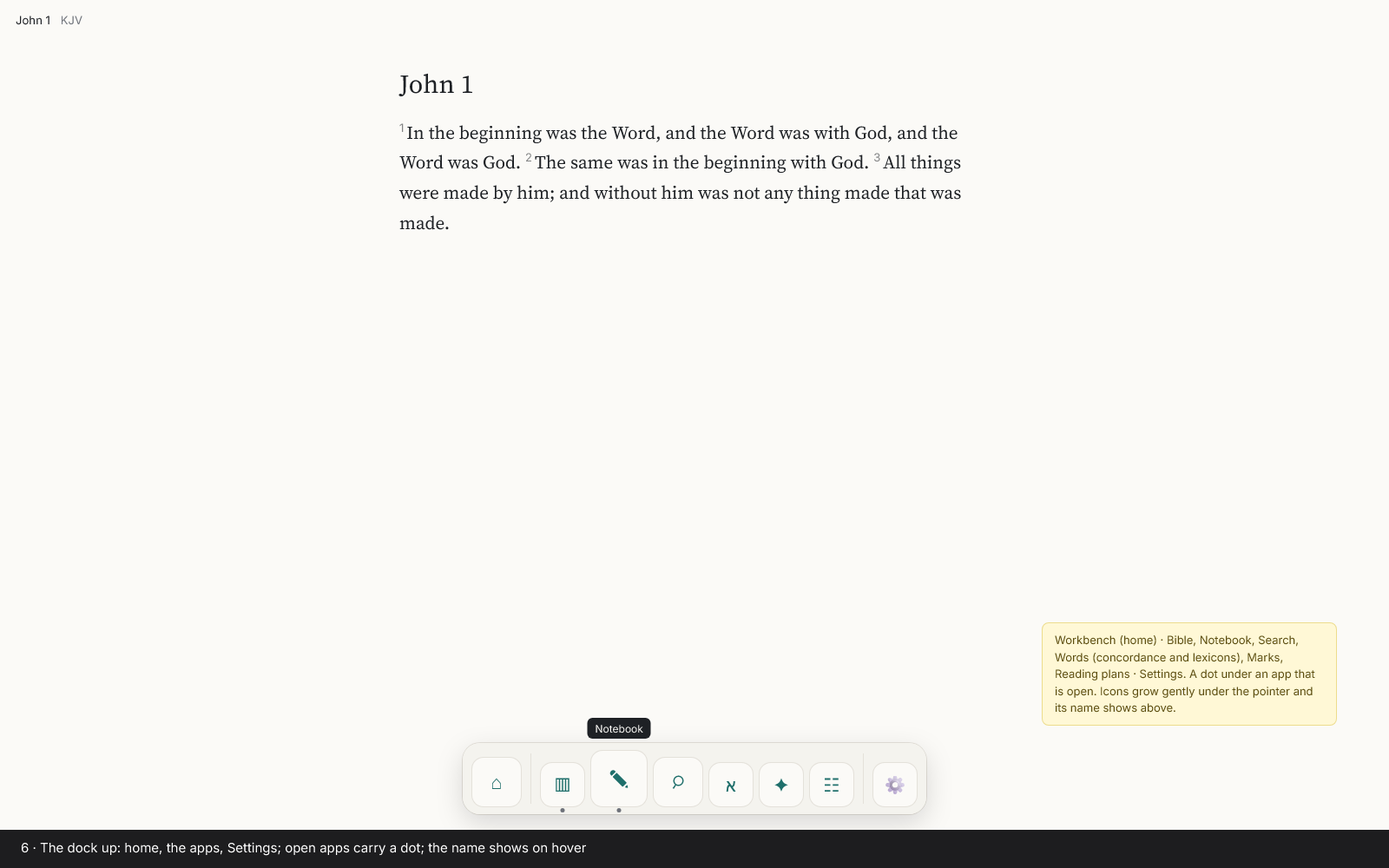
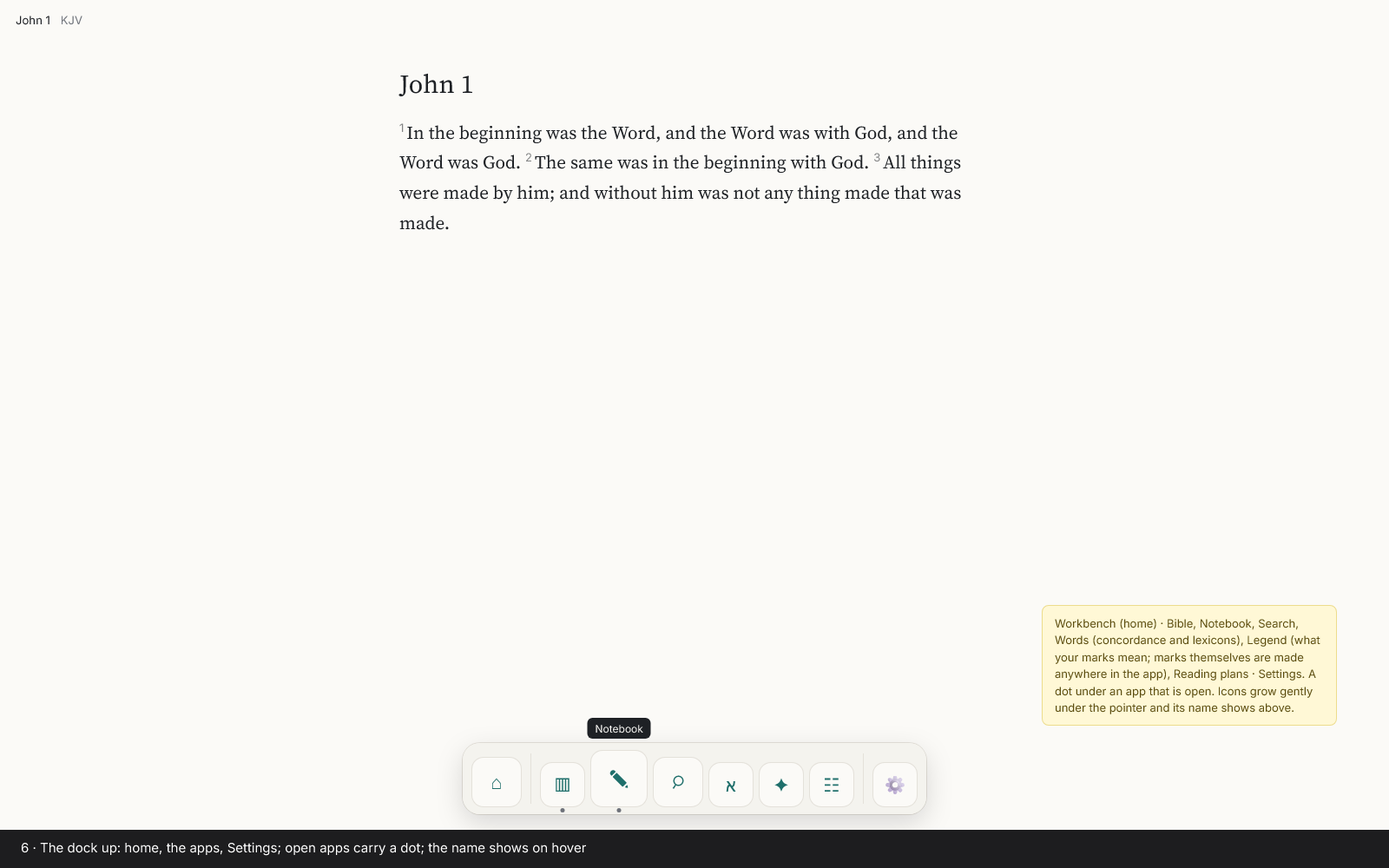
identity round 1b: twenty palettes in light and dark, a frame for every row, Legend in the dock, the codebase answer

Changed region(s): [[0.75, 0.682, 0.9688, 0.837]]

diff --git a/design/features/identity/frames.html b/design/features/identity/frames.html
@@ -63,10 +63,23 @@ body { margin: 0; background: #ccc; font: 14px/1.5 Inter, system-ui, sans-serif;
 .z { width: 96px; height: 60px; border-radius: 8px; display:grid; gap: 3px; padding: 3px; background: var(--paper); border: 1px solid var(--line); }
 .z i { background: var(--accent-soft); border-radius: 4px; display:block; } .z i.on { background: var(--accent); }
 .note { position:absolute; background:#FFF8D6; border:1px solid #EDDC8C; color:#5C4E10; padding: 10px 14px; border-radius: 8px; font-size: 13px; width: 340px; z-index: 20; }
+
+.pg { display:grid; grid-template-columns: repeat(5, 1fr); grid-template-rows: repeat(4, 1fr); gap: 10px; padding: 14px; height: 100%; background:#d9d9d9; }
+.pc { background: var(--paper); color: var(--ink); border-radius: 12px; padding: 12px 14px; display:flex; flex-direction:column; gap: 6px; border:1px solid var(--line); font-family: Inter, sans-serif; }
+.pn { font-weight: 600; font-size: 15px; }
+.pv { font-family: 'Source Serif 4', serif; font-size: 14px; line-height: 1.5; flex: 1; overflow: hidden; }
+.pr { display:flex; gap: 6px; align-items:center; }
+.sq { margin-left:auto; display:flex; gap:3px; } .sq i { width:14px; height:14px; border-radius:4px; display:block; border:1px solid #0002; }
+.kbd { position:absolute; top:-10px; right:-6px; background: var(--ink); color: var(--paper); font: 600 11px Inter; border-radius: 5px; padding: 1px 5px; }
+.set { position:absolute; left: 50%; top: 60px; transform: translateX(-50%); width: 720px; background: var(--paper); border:1px solid var(--line); border-radius: 14px; box-shadow: 0 20px 50px rgba(0,0,0,.16); padding: 22px 26px; font-family: var(--ui), sans-serif; }
+.set h2 { margin: 0 0 14px; font-size: 18px; }
+.seg { display:inline-flex; border:1px solid var(--line); border-radius: 8px; overflow:hidden; } .seg span { padding: 6px 14px; font-size: 13px; } .seg span.on { background: var(--accent); color:#fff; }
+.srow { display:flex; justify-content: space-between; align-items:center; padding: 12px 0; border-bottom:1px solid var(--line); }
+.hl { background: color-mix(in srgb, var(--accent) 16%, transparent); border-radius: 3px; }
 </style></head><body>
 
 <!-- 1: three directions -->
-<div class="frame" data-id="1" data-row="1" style="display:flex">
+<div class="frame" data-id="1b" data-row="1" style="display:flex">
   <div class="dir d-vellum"><h2>A · Vellum</h2><div class="tag">Quiet warm-white paper, deep teal ink-accent · Inter + Source Serif 4</div>
     <div class="sw"><i style="background:#FBFAF7"></i><i style="background:#F3F1EC"></i><i style="background:#1E2125"></i><i style="background:#1F6F6B"></i><i style="background:#DDECEA"></i></div>
     <div class="read" data-verses="john"></div>
@@ -88,15 +101,15 @@ body { margin: 0; background: #ccc; font: 14px/1.5 Inter, system-ui, sans-serif;
     <div class="mini"><div class="row"><span>Salt lessons 2025</span><span style="color:var(--muted)">2m ago</span></div><div class="row"><span>Word studies</span><span style="color:var(--muted)">Yesterday</span></div></div>
     <div class="mk"><i style="background:#F6D96B"></i><i style="background:#9FD3A8"></i><i style="background:#9CC3F0"></i><i style="background:#F3A6A6"></i><i style="background:#C9B3EC"></i></div>
   </div>
-  <div class="cap">1 · Three identities, each a palette, a UI face and a scripture face; the marks palette is the same in all three</div>
+  <div class="cap">1 (detail) · Three of the palettes up close with their faces; the marks palette is the same in all of them</div>
 </div>
 
 <!-- 2: dark -->
-<div class="frame" data-id="2" data-row="2" style="display:flex">
+<div class="frame" data-id="2b" data-row="2" style="display:flex">
   <div class="dir d-vellum dark"><h2>A · Vellum, dark</h2><div class="read" data-verses="john"></div><div><span class="btn">Open</span> <span class="chip">Covenant</span></div></div>
   <div class="dir d-ink dark"><h2>B · Ink, dark</h2><div class="read" data-verses="john"></div><div><span class="btn">Open</span> <span class="chip">Covenant</span></div></div>
   <div class="dir d-olive dark"><h2>C · Olive press, dark</h2><div class="read" data-verses="john"></div><div><span class="btn">Open</span> <span class="chip">Covenant</span></div></div>
-  <div class="cap">2 · Each identity in dark; the page surface's colors are a theme the person can change (row 3)</div>
+  <div class="cap">2 (detail) · Three palettes in dark, up close</div>
 </div>
 
 <!-- 3: scripture faces -->
@@ -131,7 +144,7 @@ body { margin: 0; background: #ccc; font: 14px/1.5 Inter, system-ui, sans-serif;
     <div class="dsep"></div>
     <div class="app-i">⚙&#xFE0E;</div>
   </div>
-  <div class="note" style="right:60px;bottom:120px">Workbench (home) · Bible, Notebook, Search, Words (concordance and lexicons), Marks, Reading plans · Settings. A dot under an app that is open. Icons grow gently under the pointer and its name shows above.</div>
+  <div class="note" style="right:60px;bottom:120px">Workbench (home) · Bible, Notebook, Search, Words (concordance and lexicons), Legend (what your marks mean; marks themselves are made anywhere in the app), Reading plans · Settings. A dot under an app that is open. Icons grow gently under the pointer and its name shows above.</div>
 </div><div class="cap">6 · The dock up: home, the apps, Settings; open apps carry a dot; the name shows on hover</div></div>
 
 <!-- 6: taskbar -->
@@ -179,6 +192,14 @@ body { margin: 0; background: #ccc; font: 14px/1.5 Inter, system-ui, sans-serif;
   <div class="win" style="left:1170px;top:58px;right:20px;bottom:20px"><div class="wt"><b>Words · G3056</b></div><div class="wb"><div class="ln"></div><div class="ln"></div></div></div>
 </div><div class="cap">15 · Together C, Desks: a named, saved arrangement of apps per task; switching desks swaps the whole screen; nothing stays open unseen</div></div>
 
+<div class="frame" data-id="1" data-row="1"><div class="pg"><div class="pc" style="--paper:#FBFAF7;--ink:#1E2125;--accent:#1F6F6B;--line:color-mix(in srgb,#1E2125 12%,#FBFAF7);--muted:color-mix(in srgb,#1E2125 55%,#FBFAF7);--accent-soft:color-mix(in srgb,#1F6F6B 14%,#FBFAF7)"><div class="pn">Vellum</div><div class="pv" data-verses="john1"></div><div class="pr"><span class="btn" style="padding:4px 10px">Open</span><span class="chip">Folder</span><span class="sq"><i style="background:#FBFAF7"></i><i style="background:#1E2125"></i><i style="background:#1F6F6B"></i></span></div></div><div class="pc" style="--paper:#F7F8FA;--ink:#161A22;--accent:#3346B8;--line:color-mix(in srgb,#161A22 12%,#F7F8FA);--muted:color-mix(in srgb,#161A22 55%,#F7F8FA);--accent-soft:color-mix(in srgb,#3346B8 14%,#F7F8FA)"><div class="pn">Ink</div><div class="pv" data-verses="john1"></div><div class="pr"><span class="btn" style="padding:4px 10px">Open</span><span class="chip">Folder</span><span class="sq"><i style="background:#F7F8FA"></i><i style="background:#161A22"></i><i style="background:#3346B8"></i></span></div></div><div class="pc" style="--paper:#F7F5EF;--ink:#24231F;--accent:#5D6B2E;--line:color-mix(in srgb,#24231F 12%,#F7F5EF);--muted:color-mix(in srgb,#24231F 55%,#F7F5EF);--accent-soft:color-mix(in srgb,#5D6B2E 14%,#F7F5EF)"><div class="pn">Olive press</div><div class="pv" data-verses="john1"></div><div class="pr"><span class="btn" style="padding:4px 10px">Open</span><span class="chip">Folder</span><span class="sq"><i style="background:#F7F5EF"></i><i style="background:#24231F"></i><i style="background:#5D6B2E"></i></span></div></div><div class="pc" style="--paper:#F8F3EA;--ink:#2A2420;--accent:#A0522D;--line:color-mix(in srgb,#2A2420 12%,#F8F3EA);--muted:color-mix(in srgb,#2A2420 55%,#F8F3EA);--accent-soft:color-mix(in srgb,#A0522D 14%,#F8F3EA)"><div class="pn">Parchment</div><div class="pv" data-verses="john1"></div><div class="pr"><span class="btn" style="padding:4px 10px">Open</span><span class="chip">Folder</span><span class="sq"><i style="background:#F8F3EA"></i><i style="background:#2A2420"></i><i style="background:#A0522D"></i></span></div></div><div class="pc" style="--paper:#F5F7F9;--ink:#1B2330;--accent:#3B5B7A;--line:color-mix(in srgb,#1B2330 12%,#F5F7F9);--muted:color-mix(in srgb,#1B2330 55%,#F5F7F9);--accent-soft:color-mix(in srgb,#3B5B7A 14%,#F5F7F9)"><div class="pn">Slate</div><div class="pv" data-verses="john1"></div><div class="pr"><span class="btn" style="padding:4px 10px">Open</span><span class="chip">Folder</span><span class="sq"><i style="background:#F5F7F9"></i><i style="background:#1B2330"></i><i style="background:#3B5B7A"></i></span></div></div><div class="pc" style="--paper:#F4F6F1;--ink:#20261F;--accent:#5E7D63;--line:color-mix(in srgb,#20261F 12%,#F4F6F1);--muted:color-mix(in srgb,#20261F 55%,#F4F6F1);--accent-soft:color-mix(in srgb,#5E7D63 14%,#F4F6F1)"><div class="pn">Sage</div><div class="pv" data-verses="john1"></div><div class="pr"><span class="btn" style="padding:4px 10px">Open</span><span class="chip">Folder</span><span class="sq"><i style="background:#F4F6F1"></i><i style="background:#20261F"></i><i style="background:#5E7D63"></i></span></div></div><div class="pc" style="--paper:#F9F6F8;--ink:#241C24;--accent:#6B3F6E;--line:color-mix(in srgb,#241C24 12%,#F9F6F8);--muted:color-mix(in srgb,#241C24 55%,#F9F6F8);--accent-soft:color-mix(in srgb,#6B3F6E 14%,#F9F6F8)"><div class="pn">Plum</div><div class="pv" data-verses="john1"></div><div class="pr"><span class="btn" style="padding:4px 10px">Open</span><span class="chip">Folder</span><span class="sq"><i style="background:#F9F6F8"></i><i style="background:#241C24"></i><i style="background:#6B3F6E"></i></span></div></div><div class="pc" style="--paper:#F6F8FB;--ink:#121A2A;--accent:#1E3A6B;--line:color-mix(in srgb,#121A2A 12%,#F6F8FB);--muted:color-mix(in srgb,#121A2A 55%,#F6F8FB);--accent-soft:color-mix(in srgb,#1E3A6B 14%,#F6F8FB)"><div class="pn">Harbor</div><div class="pv" data-verses="john1"></div><div class="pr"><span class="btn" style="padding:4px 10px">Open</span><span class="chip">Folder</span><span class="sq"><i style="background:#F6F8FB"></i><i style="background:#121A2A"></i><i style="background:#1E3A6B"></i></span></div></div><div class="pc" style="--paper:#FAF5F0;--ink:#2B211C;--accent:#B5562F;--line:color-mix(in srgb,#2B211C 12%,#FAF5F0);--muted:color-mix(in srgb,#2B211C 55%,#FAF5F0);--accent-soft:color-mix(in srgb,#B5562F 14%,#FAF5F0)"><div class="pn">Terracotta</div><div class="pv" data-verses="john1"></div><div class="pr"><span class="btn" style="padding:4px 10px">Open</span><span class="chip">Folder</span><span class="sq"><i style="background:#FAF5F0"></i><i style="background:#2B211C"></i><i style="background:#B5562F"></i></span></div></div><div class="pc" style="--paper:#F6F6F6;--ink:#1A1A1A;--accent:#3F3F46;--line:color-mix(in srgb,#1A1A1A 12%,#F6F6F6);--muted:color-mix(in srgb,#1A1A1A 55%,#F6F6F6);--accent-soft:color-mix(in srgb,#3F3F46 14%,#F6F6F6)"><div class="pn">Graphite</div><div class="pv" data-verses="john1"></div><div class="pr"><span class="btn" style="padding:4px 10px">Open</span><span class="chip">Folder</span><span class="sq"><i style="background:#F6F6F6"></i><i style="background:#1A1A1A"></i><i style="background:#3F3F46"></i></span></div></div><div class="pc" style="--paper:#F5F6EE;--ink:#22251B;--accent:#4F6B2A;--line:color-mix(in srgb,#22251B 12%,#F5F6EE);--muted:color-mix(in srgb,#22251B 55%,#F5F6EE);--accent-soft:color-mix(in srgb,#4F6B2A 14%,#F5F6EE)"><div class="pn">Moss</div><div class="pv" data-verses="john1"></div><div class="pr"><span class="btn" style="padding:4px 10px">Open</span><span class="chip">Folder</span><span class="sq"><i style="background:#F5F6EE"></i><i style="background:#22251B"></i><i style="background:#4F6B2A"></i></span></div></div><div class="pc" style="--paper:#FAF4F3;--ink:#2A1F1F;--accent:#A44B5A;--line:color-mix(in srgb,#2A1F1F 12%,#FAF4F3);--muted:color-mix(in srgb,#2A1F1F 55%,#FAF4F3);--accent-soft:color-mix(in srgb,#A44B5A 14%,#FAF4F3)"><div class="pn">Clay rose</div><div class="pv" data-verses="john1"></div><div class="pr"><span class="btn" style="padding:4px 10px">Open</span><span class="chip">Folder</span><span class="sq"><i style="background:#FAF4F3"></i><i style="background:#2A1F1F"></i><i style="background:#A44B5A"></i></span></div></div><div class="pc" style="--paper:#F6F7FC;--ink:#151A2E;--accent:#2849A8;--line:color-mix(in srgb,#151A2E 12%,#F6F7FC);--muted:color-mix(in srgb,#151A2E 55%,#F6F7FC);--accent-soft:color-mix(in srgb,#2849A8 14%,#F6F7FC)"><div class="pn">Lapis</div><div class="pv" data-verses="john1"></div><div class="pr"><span class="btn" style="padding:4px 10px">Open</span><span class="chip">Folder</span><span class="sq"><i style="background:#F6F7FC"></i><i style="background:#151A2E"></i><i style="background:#2849A8"></i></span></div></div><div class="pc" style="--paper:#FBF7EC;--ink:#29241A;--accent:#A9740F;--line:color-mix(in srgb,#29241A 12%,#FBF7EC);--muted:color-mix(in srgb,#29241A 55%,#FBF7EC);--accent-soft:color-mix(in srgb,#A9740F 14%,#FBF7EC)"><div class="pn">Saffron</div><div class="pv" data-verses="john1"></div><div class="pr"><span class="btn" style="padding:4px 10px">Open</span><span class="chip">Folder</span><span class="sq"><i style="background:#FBF7EC"></i><i style="background:#29241A"></i><i style="background:#A9740F"></i></span></div></div><div class="pc" style="--paper:#F7F3EE;--ink:#231E19;--accent:#7A4E2D;--line:color-mix(in srgb,#231E19 12%,#F7F3EE);--muted:color-mix(in srgb,#231E19 55%,#F7F3EE);--accent-soft:color-mix(in srgb,#7A4E2D 14%,#F7F3EE)"><div class="pn">Cedar</div><div class="pv" data-verses="john1"></div><div class="pr"><span class="btn" style="padding:4px 10px">Open</span><span class="chip">Folder</span><span class="sq"><i style="background:#F7F3EE"></i><i style="background:#231E19"></i><i style="background:#7A4E2D"></i></span></div></div><div class="pc" style="--paper:#F4F8F9;--ink:#16202A;--accent:#2A7D99;--line:color-mix(in srgb,#16202A 12%,#F4F8F9);--muted:color-mix(in srgb,#16202A 55%,#F4F8F9);--accent-soft:color-mix(in srgb,#2A7D99 14%,#F4F8F9)"><div class="pn">Glacier</div><div class="pv" data-verses="john1"></div><div class="pr"><span class="btn" style="padding:4px 10px">Open</span><span class="chip">Folder</span><span class="sq"><i style="background:#F4F8F9"></i><i style="background:#16202A"></i><i style="background:#2A7D99"></i></span></div></div><div class="pc" style="--paper:#F7F6FA;--ink:#1F1D29;--accent:#6A5AA3;--line:color-mix(in srgb,#1F1D29 12%,#F7F6FA);--muted:color-mix(in srgb,#1F1D29 55%,#F7F6FA);--accent-soft:color-mix(in srgb,#6A5AA3 14%,#F7F6FA)"><div class="pn">Heather</div><div class="pv" data-verses="john1"></div><div class="pr"><span class="btn" style="padding:4px 10px">Open</span><span class="chip">Folder</span><span class="sq"><i style="background:#F7F6FA"></i><i style="background:#1F1D29"></i><i style="background:#6A5AA3"></i></span></div></div><div class="pc" style="--paper:#F2F6F4;--ink:#18221E;--accent:#2F6B57;--line:color-mix(in srgb,#18221E 12%,#F2F6F4);--muted:color-mix(in srgb,#18221E 55%,#F2F6F4);--accent-soft:color-mix(in srgb,#2F6B57 14%,#F2F6F4)"><div class="pn">Juniper</div><div class="pv" data-verses="john1"></div><div class="pr"><span class="btn" style="padding:4px 10px">Open</span><span class="chip">Folder</span><span class="sq"><i style="background:#F2F6F4"></i><i style="background:#18221E"></i><i style="background:#2F6B57"></i></span></div></div><div class="pc" style="--paper:#F9F5EE;--ink:#2A251E;--accent:#9C6B3C;--line:color-mix(in srgb,#2A251E 12%,#F9F5EE);--muted:color-mix(in srgb,#2A251E 55%,#F9F5EE);--accent-soft:color-mix(in srgb,#9C6B3C 14%,#F9F5EE)"><div class="pn">Sandstone</div><div class="pv" data-verses="john1"></div><div class="pr"><span class="btn" style="padding:4px 10px">Open</span><span class="chip">Folder</span><span class="sq"><i style="background:#F9F5EE"></i><i style="background:#2A251E"></i><i style="background:#9C6B3C"></i></span></div></div><div class="pc" style="--paper:#FAF8F4;--ink:#22201C;--accent:#8A6A4F;--line:color-mix(in srgb,#22201C 12%,#FAF8F4);--muted:color-mix(in srgb,#22201C 55%,#FAF8F4);--accent-soft:color-mix(in srgb,#8A6A4F 14%,#FAF8F4)"><div class="pn">Linen</div><div class="pv" data-verses="john1"></div><div class="pr"><span class="btn" style="padding:4px 10px">Open</span><span class="chip">Folder</span><span class="sq"><i style="background:#FAF8F4"></i><i style="background:#22201C"></i><i style="background:#8A6A4F"></i></span></div></div></div><div class="cap">1 · Twenty palettes to choose from in Settings › Look; each is paper, ink and one accent; marks and folder colors stay yours in all of them</div></div>
+<div class="frame" data-id="2" data-row="2"><div class="pg"><div class="pc" style="--paper:color-mix(in srgb,#1F6F6B 7%,#141619);--ink:#E8E6E0;--accent:color-mix(in srgb,#1F6F6B 55%,#fff);--line:#2c2f34;--muted:#9a9ea6;--accent-soft:color-mix(in srgb,#1F6F6B 25%,#141619)"><div class="pn">Vellum</div><div class="pv" data-verses="john1"></div><div class="pr"><span class="btn" style="padding:4px 10px">Open</span><span class="chip">Folder</span><span class="sq"><i style="background:#FBFAF7"></i><i style="background:#1E2125"></i><i style="background:#1F6F6B"></i></span></div></div><div class="pc" style="--paper:color-mix(in srgb,#3346B8 7%,#141619);--ink:#E8E6E0;--accent:color-mix(in srgb,#3346B8 55%,#fff);--line:#2c2f34;--muted:#9a9ea6;--accent-soft:color-mix(in srgb,#3346B8 25%,#141619)"><div class="pn">Ink</div><div class="pv" data-verses="john1"></div><div class="pr"><span class="btn" style="padding:4px 10px">Open</span><span class="chip">Folder</span><span class="sq"><i style="background:#F7F8FA"></i><i style="background:#161A22"></i><i style="background:#3346B8"></i></span></div></div><div class="pc" style="--paper:color-mix(in srgb,#5D6B2E 7%,#141619);--ink:#E8E6E0;--accent:color-mix(in srgb,#5D6B2E 55%,#fff);--line:#2c2f34;--muted:#9a9ea6;--accent-soft:color-mix(in srgb,#5D6B2E 25%,#141619)"><div class="pn">Olive press</div><div class="pv" data-verses="john1"></div><div class="pr"><span class="btn" style="padding:4px 10px">Open</span><span class="chip">Folder</span><span class="sq"><i style="background:#F7F5EF"></i><i style="background:#24231F"></i><i style="background:#5D6B2E"></i></span></div></div><div class="pc" style="--paper:color-mix(in srgb,#A0522D 7%,#141619);--ink:#E8E6E0;--accent:color-mix(in srgb,#A0522D 55%,#fff);--line:#2c2f34;--muted:#9a9ea6;--accent-soft:color-mix(in srgb,#A0522D 25%,#141619)"><div class="pn">Parchment</div><div class="pv" data-verses="john1"></div><div class="pr"><span class="btn" style="padding:4px 10px">Open</span><span class="chip">Folder</span><span class="sq"><i style="background:#F8F3EA"></i><i style="background:#2A2420"></i><i style="background:#A0522D"></i></span></div></div><div class="pc" style="--paper:color-mix(in srgb,#3B5B7A 7%,#141619);--ink:#E8E6E0;--accent:color-mix(in srgb,#3B5B7A 55%,#fff);--line:#2c2f34;--muted:#9a9ea6;--accent-soft:color-mix(in srgb,#3B5B7A 25%,#141619)"><div class="pn">Slate</div><div class="pv" data-verses="john1"></div><div class="pr"><span class="btn" style="padding:4px 10px">Open</span><span class="chip">Folder</span><span class="sq"><i style="background:#F5F7F9"></i><i style="background:#1B2330"></i><i style="background:#3B5B7A"></i></span></div></div><div class="pc" style="--paper:color-mix(in srgb,#5E7D63 7%,#141619);--ink:#E8E6E0;--accent:color-mix(in srgb,#5E7D63 55%,#fff);--line:#2c2f34;--muted:#9a9ea6;--accent-soft:color-mix(in srgb,#5E7D63 25%,#141619)"><div class="pn">Sage</div><div class="pv" data-verses="john1"></div><div class="pr"><span class="btn" style="padding:4px 10px">Open</span><span class="chip">Folder</span><span class="sq"><i style="background:#F4F6F1"></i><i style="background:#20261F"></i><i style="background:#5E7D63"></i></span></div></div><div class="pc" style="--paper:color-mix(in srgb,#6B3F6E 7%,#141619);--ink:#E8E6E0;--accent:color-mix(in srgb,#6B3F6E 55%,#fff);--line:#2c2f34;--muted:#9a9ea6;--accent-soft:color-mix(in srgb,#6B3F6E 25%,#141619)"><div class="pn">Plum</div><div class="pv" data-verses="john1"></div><div class="pr"><span class="btn" style="padding:4px 10px">Open</span><span class="chip">Folder</span><span class="sq"><i style="background:#F9F6F8"></i><i style="background:#241C24"></i><i style="background:#6B3F6E"></i></span></div></div><div class="pc" style="--paper:color-mix(in srgb,#1E3A6B 7%,#141619);--ink:#E8E6E0;--accent:color-mix(in srgb,#1E3A6B 55%,#fff);--line:#2c2f34;--muted:#9a9ea6;--accent-soft:color-mix(in srgb,#1E3A6B 25%,#141619)"><div class="pn">Harbor</div><div class="pv" data-verses="john1"></div><div class="pr"><span class="btn" style="padding:4px 10px">Open</span><span class="chip">Folder</span><span class="sq"><i style="background:#F6F8FB"></i><i style="background:#121A2A"></i><i style="background:#1E3A6B"></i></span></div></div><div class="pc" style="--paper:color-mix(in srgb,#B5562F 7%,#141619);--ink:#E8E6E0;--accent:color-mix(in srgb,#B5562F 55%,#fff);--line:#2c2f34;--muted:#9a9ea6;--accent-soft:color-mix(in srgb,#B5562F 25%,#141619)"><div class="pn">Terracotta</div><div class="pv" data-verses="john1"></div><div class="pr"><span class="btn" style="padding:4px 10px">Open</span><span class="chip">Folder</span><span class="sq"><i style="background:#FAF5F0"></i><i style="background:#2B211C"></i><i style="background:#B5562F"></i></span></div></div><div class="pc" style="--paper:color-mix(in srgb,#3F3F46 7%,#141619);--ink:#E8E6E0;--accent:color-mix(in srgb,#3F3F46 55%,#fff);--line:#2c2f34;--muted:#9a9ea6;--accent-soft:color-mix(in srgb,#3F3F46 25%,#141619)"><div class="pn">Graphite</div><div class="pv" data-verses="john1"></div><div class="pr"><span class="btn" style="padding:4px 10px">Open</span><span class="chip">Folder</span><span class="sq"><i style="background:#F6F6F6"></i><i style="background:#1A1A1A"></i><i style="background:#3F3F46"></i></span></div></div><div class="pc" style="--paper:color-mix(in srgb,#4F6B2A 7%,#141619);--ink:#E8E6E0;--accent:color-mix(in srgb,#4F6B2A 55%,#fff);--line:#2c2f34;--muted:#9a9ea6;--accent-soft:color-mix(in srgb,#4F6B2A 25%,#141619)"><div class="pn">Moss</div><div class="pv" data-verses="john1"></div><div class="pr"><span class="btn" style="padding:4px 10px">Open</span><span class="chip">Folder</span><span class="sq"><i style="background:#F5F6EE"></i><i style="background:#22251B"></i><i style="background:#4F6B2A"></i></span></div></div><div class="pc" style="--paper:color-mix(in srgb,#A44B5A 7%,#141619);--ink:#E8E6E0;--accent:color-mix(in srgb,#A44B5A 55%,#fff);--line:#2c2f34;--muted:#9a9ea6;--accent-soft:color-mix(in srgb,#A44B5A 25%,#141619)"><div class="pn">Clay rose</div><div class="pv" data-verses="john1"></div><div class="pr"><span class="btn" style="padding:4px 10px">Open</span><span class="chip">Folder</span><span class="sq"><i style="background:#FAF4F3"></i><i style="background:#2A1F1F"></i><i style="background:#A44B5A"></i></span></div></div><div class="pc" style="--paper:color-mix(in srgb,#2849A8 7%,#141619);--ink:#E8E6E0;--accent:color-mix(in srgb,#2849A8 55%,#fff);--line:#2c2f34;--muted:#9a9ea6;--accent-soft:color-mix(in srgb,#2849A8 25%,#141619)"><div class="pn">Lapis</div><div class="pv" data-verses="john1"></div><div class="pr"><span class="btn" style="padding:4px 10px">Open</span><span class="chip">Folder</span><span class="sq"><i style="background:#F6F7FC"></i><i style="background:#151A2E"></i><i style="background:#2849A8"></i></span></div></div><div class="pc" style="--paper:color-mix(in srgb,#A9740F 7%,#141619);--ink:#E8E6E0;--accent:color-mix(in srgb,#A9740F 55%,#fff);--line:#2c2f34;--muted:#9a9ea6;--accent-soft:color-mix(in srgb,#A9740F 25%,#141619)"><div class="pn">Saffron</div><div class="pv" data-verses="john1"></div><div class="pr"><span class="btn" style="padding:4px 10px">Open</span><span class="chip">Folder</span><span class="sq"><i style="background:#FBF7EC"></i><i style="background:#29241A"></i><i style="background:#A9740F"></i></span></div></div><div class="pc" style="--paper:color-mix(in srgb,#7A4E2D 7%,#141619);--ink:#E8E6E0;--accent:color-mix(in srgb,#7A4E2D 55%,#fff);--line:#2c2f34;--muted:#9a9ea6;--accent-soft:color-mix(in srgb,#7A4E2D 25%,#141619)"><div class="pn">Cedar</div><div class="pv" data-verses="john1"></div><div class="pr"><span class="btn" style="padding:4px 10px">Open</span><span class="chip">Folder</span><span class="sq"><i style="background:#F7F3EE"></i><i style="background:#231E19"></i><i style="background:#7A4E2D"></i></span></div></div><div class="pc" style="--paper:color-mix(in srgb,#2A7D99 7%,#141619);--ink:#E8E6E0;--accent:color-mix(in srgb,#2A7D99 55%,#fff);--line:#2c2f34;--muted:#9a9ea6;--accent-soft:color-mix(in srgb,#2A7D99 25%,#141619)"><div class="pn">Glacier</div><div class="pv" data-verses="john1"></div><div class="pr"><span class="btn" style="padding:4px 10px">Open</span><span class="chip">Folder</span><span class="sq"><i style="background:#F4F8F9"></i><i style="background:#16202A"></i><i style="background:#2A7D99"></i></span></div></div><div class="pc" style="--paper:color-mix(in srgb,#6A5AA3 7%,#141619);--ink:#E8E6E0;--accent:color-mix(in srgb,#6A5AA3 55%,#fff);--line:#2c2f34;--muted:#9a9ea6;--accent-soft:color-mix(in srgb,#6A5AA3 25%,#141619)"><div class="pn">Heather</div><div class="pv" data-verses="john1"></div><div class="pr"><span class="btn" style="padding:4px 10px">Open</span><span class="chip">Folder</span><span class="sq"><i style="background:#F7F6FA"></i><i style="background:#1F1D29"></i><i style="background:#6A5AA3"></i></span></div></div><div class="pc" style="--paper:color-mix(in srgb,#2F6B57 7%,#141619);--ink:#E8E6E0;--accent:color-mix(in srgb,#2F6B57 55%,#fff);--line:#2c2f34;--muted:#9a9ea6;--accent-soft:color-mix(in srgb,#2F6B57 25%,#141619)"><div class="pn">Juniper</div><div class="pv" data-verses="john1"></div><div class="pr"><span class="btn" style="padding:4px 10px">Open</span><span class="chip">Folder</span><span class="sq"><i style="background:#F2F6F4"></i><i style="background:#18221E"></i><i style="background:#2F6B57"></i></span></div></div><div class="pc" style="--paper:color-mix(in srgb,#9C6B3C 7%,#141619);--ink:#E8E6E0;--accent:color-mix(in srgb,#9C6B3C 55%,#fff);--line:#2c2f34;--muted:#9a9ea6;--accent-soft:color-mix(in srgb,#9C6B3C 25%,#141619)"><div class="pn">Sandstone</div><div class="pv" data-verses="john1"></div><div class="pr"><span class="btn" style="padding:4px 10px">Open</span><span class="chip">Folder</span><span class="sq"><i style="background:#F9F5EE"></i><i style="background:#2A251E"></i><i style="background:#9C6B3C"></i></span></div></div><div class="pc" style="--paper:color-mix(in srgb,#8A6A4F 7%,#141619);--ink:#E8E6E0;--accent:color-mix(in srgb,#8A6A4F 55%,#fff);--line:#2c2f34;--muted:#9a9ea6;--accent-soft:color-mix(in srgb,#8A6A4F 25%,#141619)"><div class="pn">Linen</div><div class="pv" data-verses="john1"></div><div class="pr"><span class="btn" style="padding:4px 10px">Open</span><span class="chip">Folder</span><span class="sq"><i style="background:#FAF8F4"></i><i style="background:#22201C"></i><i style="background:#8A6A4F"></i></span></div></div></div><div class="cap">2 · The same twenty in dark: each keeps its accent, lifted for a dark page</div></div>
+<div class="frame d-vellum" data-id="3" data-row="3"><div class="app" style="display:flex;flex-direction:column"><div class="topbar"><b>Page theme</b><span>the chrome keeps the palette; only the page surface changes</span></div><div style="flex:1;display:flex;gap:1px;background:var(--line)"><div style="flex:1;background:#FBFAF7;color:#1E2125;padding:30px 34px;font-family:'Source Serif 4',serif;font-size:19px;line-height:1.62;"><div style="font:600 13px Inter;opacity:.6;margin-bottom:10px">Paper</div><div data-verses="john"></div></div><div style="flex:1;background:#F4ECD8;color:#3B2F22;padding:30px 34px;font-family:'Source Serif 4',serif;font-size:19px;line-height:1.62;"><div style="font:600 13px Inter;opacity:.6;margin-bottom:10px">Sepia</div><div data-verses="john"></div></div><div style="flex:1;background:#15171A;color:#D9D6CF;padding:30px 34px;font-family:'Source Serif 4',serif;font-size:19px;line-height:1.62;"><div style="font:600 13px Inter;opacity:.6;margin-bottom:10px">Night</div><div data-verses="john"></div></div><div style="flex:1;background:#EEF3EC;color:#1F2A22;padding:30px 34px;font-family:'Source Serif 4',serif;font-size:19px;line-height:1.62;outline:2px dashed var(--accent);outline-offset:-8px"><div style="font:600 13px Inter;opacity:.6;margin-bottom:10px">Custom: your colors</div><div data-verses="john"></div></div></div></div><div class="cap">3 · Page themes: Paper, Sepia, Night or your own colors, for the reader and pages only</div></div>
+<div class="frame d-vellum" data-id="7" data-row="7"><div class="app"><div class="win" style="left:20px;top:20px;width:770px;bottom:20px"><div class="wt"><b>Bible · John 1</b></div><div class="wb" data-verses="john"></div></div><div class="win" style="left:810px;top:20px;right:20px;bottom:20px;outline:3px solid var(--accent)"><div class="wt"><b>Notebook · Salt lessons 2025</b><span style="margin-left:auto">just opened</span></div><div class="wb" style="font-family:var(--ui)"><div style="font-size:24px;font-weight:600">Salt lessons 2025</div><div class="ln"></div><div class="ln" style="width:70%"></div></div></div><div class="dock" style="opacity:.35;bottom:4px"><div class="app-i mid">⌂</div><div class="dsep"></div><div class="app-i">▥<span class="run"></span></div><div class="app-i">✎<span class="run"></span></div><div class="app-i mid">⌕</div><div class="app-i">א</div><div class="app-i">✦</div><div class="app-i">☷</div><div class="dsep"></div><div class="app-i">⚙&#xFE0E;</div></div></div><div class="cap">7 · A click on Notebook opens it on this desk beside what is there (or brings it forward); the dock sinks as the pointer leaves</div></div>
+<div class="frame d-vellum" data-id="8" data-row="8"><div class="app"><div class="topbar"><b>John 1</b></div><div class="reader"><div class="h">John 1</div><div data-verses="john"></div></div><div class="dock"><div class="app-i mid">⌂</div><div class="dsep"></div><div class="app-i">▥<span class="run"></span></div><div class="app-i">✎<span class="run"></span></div><div class="app-i mid">⌕</div><div class="app-i">א</div><div class="app-i">✦</div><div class="app-i">☷</div><div class="dsep"></div><div class="app-i">⚙&#xFE0E;</div></div><div class="menu" style="position:absolute;left:640px;bottom:110px;width:250px;background:var(--paper);border:1px solid var(--line);border-radius:10px;box-shadow:0 10px 30px rgba(0,0,0,.16);padding:6px;font-size:14px"><div style="padding:6px 10px;color:var(--muted);font-size:12px">RECENT</div><div style="padding:6px 10px">Salt lessons 2025</div><div style="padding:6px 10px">Word studies</div><div style="height:1px;background:var(--line);margin:6px 0"></div><div style="padding:6px 10px">New window</div><div style="padding:6px 10px">Keep in dock ✓</div><div style="padding:6px 10px">Remove from dock</div></div></div><div class="cap">8 · Right-click an app in the dock: its recent items, New window, Keep in dock or Remove</div></div>
+<div class="frame d-vellum" data-id="10" data-row="10"><div class="app"><div class="reader" style="opacity:.4"><div class="h">John 1</div><div data-verses="john"></div></div><div class="set"><h2>Settings › Dock</h2><div class="srow"><span>Show the dock</span><span class="seg"><span class="on">On hover</span><span>Always (taskbar)</span></span></div><div class="srow"><span>Edge</span><span class="seg"><span class="on">Bottom</span><span>Left</span><span>Right</span></span></div><div class="srow"><span>Grow under the pointer</span><span class="seg"><span class="on">On</span><span>Off</span></span></div><div class="srow" style="border:0"><span>Apps in the dock</span><span style="color:var(--muted)">drag to reorder</span></div></div><div class="dock" style="left:18px;bottom:auto;top:50%;transform:translateY(-50%);flex-direction:column"><div class="app-i mid">⌂</div><div class="app-i">▥</div><div class="app-i">✎</div><div class="app-i">⌕</div><div class="app-i">א</div><div class="app-i">⚙&#xFE0E;</div></div></div><div class="cap">10 · Settings › Dock: on hover or always shown, the edge (bottom by default; here left, as it would look), growing on hover, the apps' order</div></div>
+<div class="frame d-vellum" data-id="12" data-row="12"><div class="app"><div class="topbar"><b>John 1</b><span>KJV</span><span style="margin-left:auto">← Workbench</span></div><div class="reader"><div class="h">John 1</div><div data-verses="john" class="first-hl"></div></div><div class="note" style="right:60px;top:80px">Continue reading opens the Bible at the verse left (lit for a moment), on the desk it was on; ← goes back to the Workbench.</div></div><div class="cap">12 · Continue reading: the Bible at the verse you left, lit briefly; back returns to the Workbench</div></div>
+<div class="frame d-vellum" data-id="16" data-row="16"><div class="app"><div class="topbar"><b>John 1</b></div><div class="reader"><div class="h">John 1</div><div data-verses="john"></div></div><div class="dock"><div class="app-i mid">⌂<span class="kbd">0</span></div><div class="dsep"></div><div class="app-i">▥<span class="kbd">1</span></div><div class="app-i">✎<span class="kbd">2</span></div><div class="app-i">⌕<span class="kbd">3</span></div><div class="app-i">א<span class="kbd">4</span></div><div class="app-i">✦<span class="kbd">5</span></div><div class="app-i">☷<span class="kbd">6</span></div><div class="dsep"></div><div class="app-i">⚙&#xFE0E;<span class="kbd">,</span></div></div><div class="note" style="left:60px;bottom:60px">Holding Ctrl shows the numbers; Ctrl+1…6 opens that app, Ctrl+0 the Workbench, Ctrl+, Settings, Ctrl+Space shows the dock.</div></div><div class="cap">16 · Keys: holding Ctrl shows each app's number on the dock</div></div>
 <script>
 window.fill = (data) => {
   for (const el of document.querySelectorAll('[data-verses]')) {
@@ -186,6 +207,7 @@ window.fill = (data) => {
     const vs = key === 'john1' ? data.john.verses.slice(0, 1) : data[key].verses;
     el.innerHTML = '';
     for (const v of vs) { const s = document.createElement('span'); s.className = 'v'; const n = document.createElement('span'); n.className = 'vn'; n.textContent = v.v; s.append(n, document.createTextNode(v.text + ' ')); el.append(s); }
+    if (el.classList.contains('first-hl')) el.firstElementChild.classList.add('hl');
   }
 };
 </script>

diff --git a/design/features/identity/README.md b/design/features/identity/README.md
@@ -30,6 +30,10 @@ is built in its tokens, then the rest of the app is reskinned pane by pane.
   static taskbar follows the same edge. Inspiration is the Mac's Dock (the person's sketch is hand-drawn and not to be
   used). The **home screen is "where you left off"**: the reading place, recent pages, open questions, today's
   reading plan, each one click to resume.
+- **Legend is an app; marks are everywhere** (the person, 2026-11-22). The dock holds Legend (what each mark means) as
+  its own app; marks are not an app, they are made anywhere in the app (the Bible, a page, a scripture block).
+- **Twenty palettes, not three** (the person, 2026-11-22): Settings › Look offers about twenty to choose from.
+- **Every interaction row has its frame** (the person, 2026-11-22): a review page with placeholders is not handed over.
 - **Panes are open to replacement.** The one need: several things working together and on screen at once. If a better
   idea than panes wins, panes are scrapped. Opening an app from the dock (full screen and snap, panes, attachments,
   or something else) is sketched together in round 1, not decided now.
@@ -48,6 +52,12 @@ is built in its tokens, then the rest of the app is reskinned pane by pane.
 | Logos, Accordance | What Bible tools get wrong: crowded toolbars, many panes always open | What to avoid |
 
 ## Directions
+
+### Twenty palettes (frames 1 and 2)
+Each palette is paper, ink and one accent, in light and dark: Vellum, Ink, Olive press, Parchment, Slate, Sage, Plum,
+Harbor, Terracotta, Graphite, Moss, Clay rose, Lapis, Saffron, Cedar, Glacier, Heather, Juniper, Sandstone, Linen. The
+person chooses one; marks and folder colors are the person's own in all of them. The faces (interface and scripture)
+are chosen apart from the palette (row 4), so any palette goes with any face. Three are shown up close below (1b, 2b).
 
 ### Identity A · Vellum
 Warm-white paper (#FBFAF7), near-black ink, a deep teal accent (#1F6F6B). Inter for the interface, Source Serif 4 for
@@ -71,17 +81,16 @@ today's warmth without its brown.
   f_…180004); Snap's layouts work inside a desk.
 
 ### Recommendation
-**Identity A (Vellum)** with **Together C (Desks), Snap's layouts inside each desk**. Vellum is the cleanest and most
+**Vellum as the default of the twenty** with **Together C (Desks), Snap's layouts inside each desk**. Vellum is the cleanest and most
 distinct; desks keep several things on screen at once without tabs, and each remembers itself. The dock holds the
 apps; the desks are named on the top line. The scripture face is the person's eye: row 4 sets four side by side.
 
 ## Open questions
 
-- Which identity: A, B, C, or a mix (one's palette with another's faces).
+- Which palette is the default, and whether any of the twenty should go or be added.
 - Which scripture face (row 4).
 - How apps share the screen: Snap, Stage, Desks, or Desks with Snap inside (rows 13–15). This replaces
   [notebook-shell](../notebook-shell/README.md) direction C.
-- The dock's apps: is Marks an app of its own, or part of the Bible (row 6)?
 
 ## Rounds
 
@@ -90,16 +99,26 @@ apps; the desks are named on the top line. The scripture face is the person's ey
 | 0 | 2026-11-22 | Questions: base look, what stays, order, references | Answers above |
 | 1 | 2026-11-22 | Three identities (light and dark), four scripture faces, the dock hidden and shown, the static taskbar, the home screen, three ways to share the screen | pending |
 
+## The codebase (the person asked, 2026-11-22: does this need a new one?)
+
+No. The redesign changes the window, not what the app knows or does. About 34,000 lines are the Rust core
+(`crates/wb-core`, `crates/wb-cli`): the Bible database, the study files, every `wb` command and their tests; the
+dock, desks and palettes do not touch them. What changes is `ui/` (about 24,000 lines of TypeScript, 2,400 of CSS):
+**a new shell is built beside the old one in `ui/src/shell/`** (tokens, dock, desks, the Workbench home), switched on
+by a setting while it grows; each app moves into it one at a time (the Notebook shell first), and the old rail, panes
+and tabs are deleted as each app leaves them. The 10,000 lines of window tests keep proving each app as it moves.
+A new codebase would throw away the tested core and the `wb` contracts for no gain.
+
 ## Interaction table
 
 Objects and words from [the Library map](../../LIBRARY.md). New words this round proposes (the map changes only with
-the person's go-ahead): **dock**, **app** (Bible, Notebook, Search, Words, Marks, Reading plans), **Workbench** (the
+the person's go-ahead): **dock**, **app** (Bible, Notebook, Search, Words, Legend, Reading plans), **Workbench** (the
 home screen), **desk** (if Together C wins), **theme**.
 
 | # | Where | Action | What the person sees | What changes on disk | `wb` command | Test | Built |
 |---|---|---|---|---|---|---|---|
-| 1 | Settings › Look | Choose an identity | The whole app takes its palette and faces at once | `settings/look.json` `identity` | *proposed:* `wb settings look --identity vellum` | `identity_applies_everywhere` | [ ] |
-| 2 | Settings › Look | Light, Dark, or As the system | The identity's light or dark form | `settings/look.json` `mode` | *proposed:* `wb settings look --mode dark` | `identity_dark_mode` | [ ] |
+| 1 | Settings › Look | Choose one of twenty palettes | The whole app takes its paper, ink and accent at once | `settings/look.json` `palette` | *proposed:* `wb settings look --palette vellum` | `identity_applies_everywhere` | [ ] |
+| 2 | Settings › Look | Light, Dark, or As the system | The palette's light or dark form | `settings/look.json` `mode` | *proposed:* `wb settings look --mode dark` | `identity_dark_mode` | [ ] |
 | 3 | Settings › Look | Page theme: Paper, Sepia, Night, or custom | Only the page-like surface (reader and pages) changes; the chrome keeps the identity | `settings/look.json` `page_theme` | *proposed:* `wb settings look --page sepia` | `page_theme_only_the_surface` | [ ] |
 | 4 | Settings › Look | Scripture face | Every verse in that face; the interface face is unchanged | `settings/look.json` `scripture_face` | *proposed:* `wb settings look --scripture source-serif` | `scripture_face_applies` | [ ] |
 | 5 | Anywhere | Pointer to the dock's edge | After 120 ms the dock rises; nothing covers the text before | Nothing | — | `dock_appears_on_edge` | [ ] |
